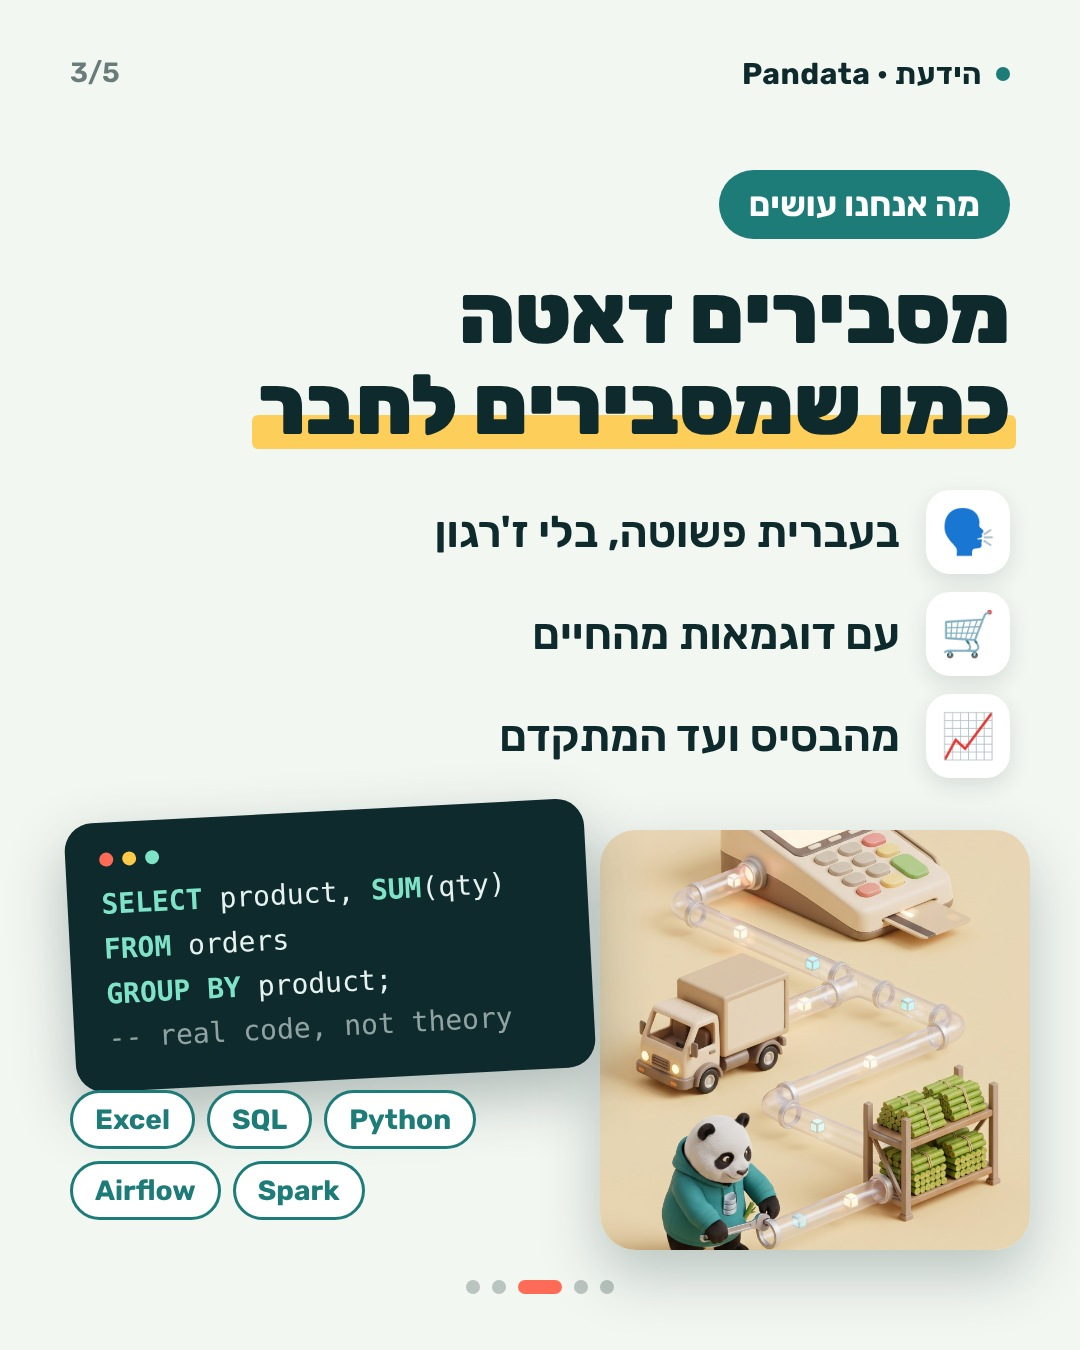
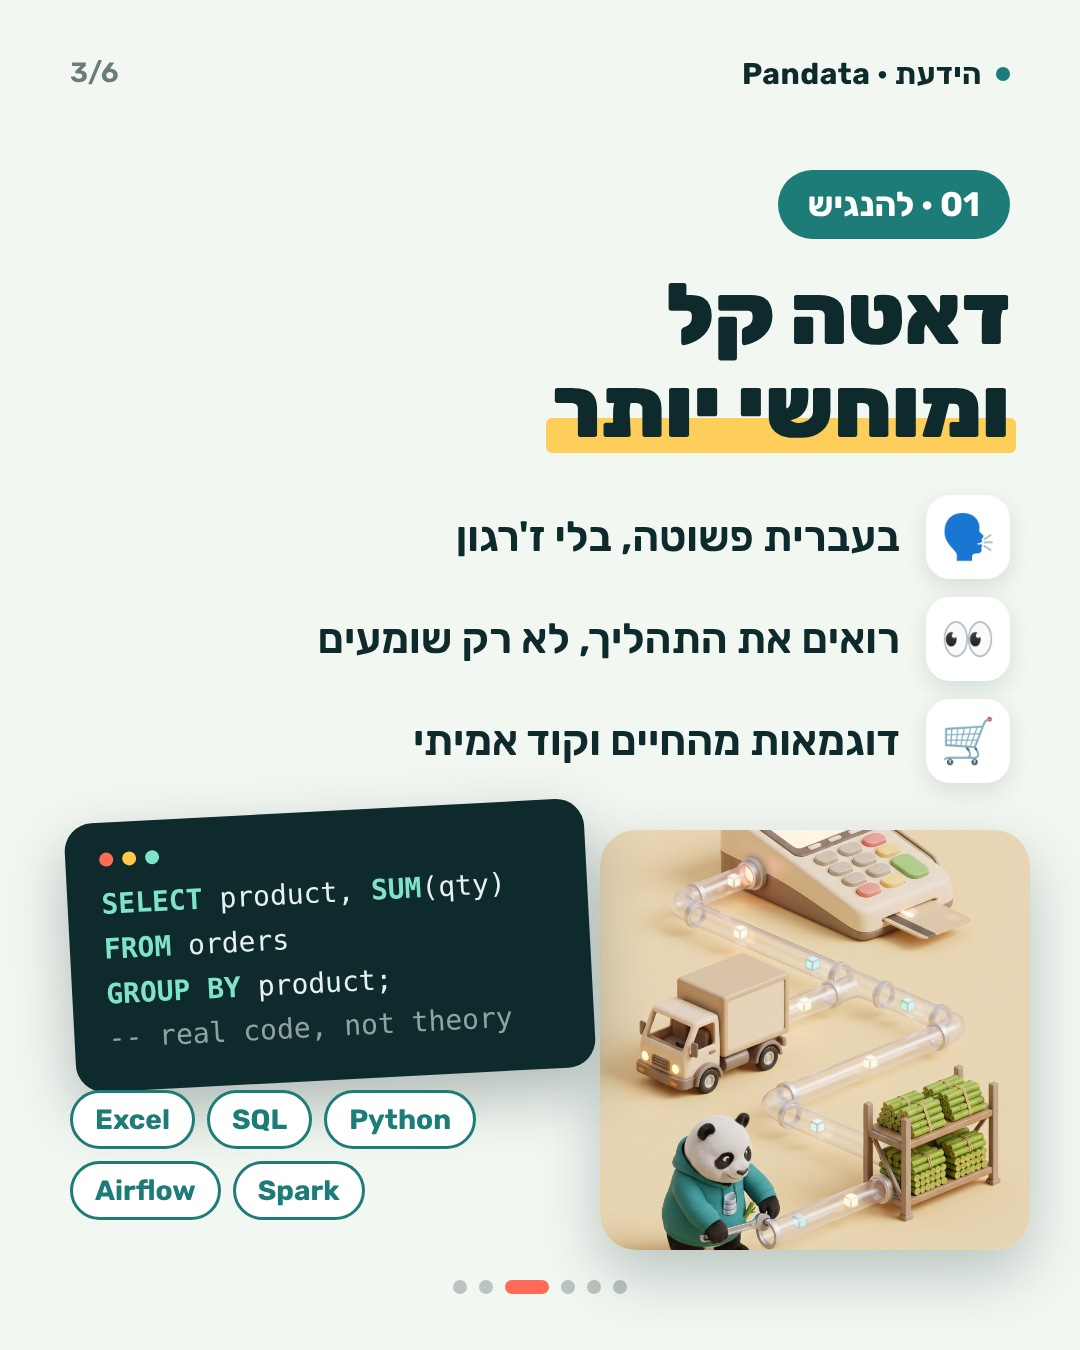
Rework vision carousel: new hook, three pillars, 6 slides
Claude-Session: https://claude.ai/code/session_01HGsxkkLTRfJG6BnZMczhct

diff --git a/posts/vision/slides.html b/posts/vision/slides.html
@@ -21,18 +21,19 @@ body{background:#888;font-family:R,sans-serif}
 mark{background:none;color:inherit;position:relative;z-index:0}
 mark::after{content:"";position:absolute;inset:auto -6px 6px -6px;height:34%;background:var(--sun);z-index:-1;border-radius:6px;opacity:.9}
 .dark mark::after{background:var(--coral);opacity:.85}
+.t{position:absolute;top:170px;right:70px;left:70px}
+h2{font-size:86px;line-height:1.08;font-weight:900}
 
-/* slide 1 */
+/* 1 */
 #s1 .bg{position:absolute;left:0;right:0;bottom:-60px;height:1150px;background:url(s1.jpg) center bottom/cover}
 #s1 .fade{position:absolute;inset:0;background:linear-gradient(180deg,rgba(10,36,38,1) 0%,rgba(10,36,38,1) 36%,rgba(10,36,38,.6) 48%,rgba(10,36,38,0) 62%)}
-#s1 .t{position:absolute;top:170px;right:70px;left:70px;z-index:3}
+#s1 .t{z-index:3}
 #s1 .pill{background:var(--mint);color:var(--deep);margin-bottom:34px}
-#s1 h1{font-size:112px;line-height:1.02;font-weight:900;letter-spacing:-1px}
+#s1 h1{font-size:120px;line-height:1.0;font-weight:900;letter-spacing:-1px}
 #s1 h1 em{font-style:normal;color:var(--mint)}
+#s1 h1 .big{color:var(--sun)}
 
-/* slide 2 */
-#s2 .t{position:absolute;top:170px;right:70px;left:70px}
-#s2 h2{font-size:86px;line-height:1.08;font-weight:900}
+/* 2 */
 #s2 p{font-size:42px;line-height:1.45;font-weight:500;margin-top:34px;max-width:900px}
 #s2 .cloud{position:absolute;bottom:120px;left:0;right:0;height:560px}
 #s2 .face{position:absolute;bottom:0;left:50%;transform:translateX(-50%);width:430px;height:430px;border-radius:50%;overflow:hidden;border:10px solid #fff;box-shadow:0 20px 60px rgba(15,42,44,.25);background:url(shock.jpg) center 30%/cover}
@@ -40,57 +41,58 @@ mark::after{content:"";position:absolute;inset:auto -6px 6px -6px;height:34%;bac
 #s2 .w.x{background:var(--coral);color:#fff;border-color:var(--coral)}
 #s2 .w.y{background:var(--ink);color:#fff}
 
-/* slide 3 */
-#s3 .t{position:absolute;top:170px;right:70px;left:70px}
+/* 3 */
 #s3 .pill{background:var(--teal);color:#fff;margin-bottom:30px}
-#s3 h2{font-size:84px;line-height:1.08;font-weight:900}
 #s3 .rows{margin-top:40px;display:flex;flex-direction:column;gap:18px}
-#s3 .row{display:flex;align-items:center;gap:26px;font-size:44px;font-weight:600}
+#s3 .row{display:flex;align-items:center;gap:26px;font-size:42px;font-weight:600}
 #s3 .ic{width:84px;height:84px;border-radius:24px;background:#fff;display:flex;align-items:center;justify-content:center;font-size:44px;box-shadow:0 8px 22px rgba(15,42,44,.12);flex:none}
 #s3 .code{position:absolute;bottom:270px;left:70px;width:520px;background:var(--ink);border-radius:28px;padding:30px 34px;direction:ltr;font-family:"DejaVu Sans Mono",monospace;font-size:28px;line-height:1.6;color:#e6f2f0;box-shadow:0 24px 60px rgba(15,42,44,.3);transform:rotate(-3deg)}
-#s3 .code .k{color:var(--mint);font-weight:700}#s3 .code .n{color:var(--sun)}
+#s3 .code .k{color:var(--mint);font-weight:700}
 #s3 .code .bar{display:flex;gap:9px;margin-bottom:16px}#s3 .code .bar i{width:14px;height:14px;border-radius:50%;background:#ff6b57}#s3 .code .bar i+i{background:#ffc94a}#s3 .code .bar i+i+i{background:#7fe3c8}
 #s3 .img{position:absolute;bottom:100px;right:50px;width:430px;height:420px;border-radius:36px;background:url(pipe.jpg) center 70%/cover;box-shadow:0 24px 60px rgba(15,42,44,.25)}
 #s3 .chips{position:absolute;bottom:130px;left:70px;display:flex;gap:12px;direction:ltr;flex-wrap:wrap;width:540px}
 #s3 .chips b{font-size:28px;font-weight:700;padding:10px 22px;border-radius:30px;border:3px solid var(--teal);color:var(--teal);background:#fff}
 
-/* slide 4 */
-#s4 .t{position:absolute;top:170px;right:70px;left:70px}
-#s4 .pill{background:var(--sun);color:var(--deep);margin-bottom:34px}
-#s4 h2{font-size:92px;line-height:1.08;font-weight:900}
-#s4 .steps{position:absolute;right:70px;left:70px;bottom:250px;height:470px}
-#s4 .st{position:absolute;width:300px;border-radius:30px;padding:30px 26px;background:rgba(255,255,255,.08);border:2px solid rgba(127,227,200,.45);backdrop-filter:blur(4px)}
-#s4 .st .n{font-weight:900;font-size:64px;color:var(--mint);line-height:1}
-#s4 .st p{font-size:36px;font-weight:600;line-height:1.3;margin-top:12px}
-#s4 .st:nth-child(1){right:0;bottom:0}
-#s4 .st:nth-child(2){right:330px;bottom:120px}
-#s4 .st:nth-child(3){right:660px;bottom:240px;background:var(--mint);color:var(--deep);border-color:var(--mint)}
-#s4 .st:nth-child(3) .n{color:var(--deep)}
-#s4 .foot{position:absolute;bottom:130px;right:70px;font-size:40px;font-weight:700;color:var(--mint)}
+/* 4 */
+#s4 .pill{background:var(--sun);color:var(--deep);margin-bottom:30px}
+#s4 .sub{font-size:40px;line-height:1.4;font-weight:500;margin-top:26px;opacity:.9}
+#s4 .card{position:absolute;right:70px;left:70px;bottom:140px;background:#fff;color:var(--ink);border-radius:36px;padding:40px 44px;box-shadow:0 30px 70px rgba(0,0,0,.35)}
+#s4 .card .tag{display:inline-block;background:var(--deep);color:#fff;font-weight:700;font-size:32px;padding:8px 20px;border-radius:30px}
+#s4 .card .q{font-size:52px;font-weight:800;line-height:1.25;margin:22px 0 28px}
+#s4 .opt{display:flex;align-items:center;gap:20px;font-size:40px;font-weight:600;padding:26px 28px;border-radius:22px;margin-top:14px}
+#s4 .opt .m{width:56px;height:56px;border-radius:50%;display:flex;align-items:center;justify-content:center;font-size:32px;color:#fff;flex:none;font-weight:900}
+#s4 .bad{background:#fff0ed}#s4 .bad .m{background:var(--coral)}#s4 .bad span{text-decoration:line-through;text-decoration-color:rgba(255,107,87,.7);text-decoration-thickness:3px}
+#s4 .good{background:#e6f8f2}#s4 .good .m{background:var(--teal)}
 
-/* slide 5 */
-#s5 .t{position:absolute;top:170px;right:70px;left:70px}
-#s5 h2{font-size:84px;line-height:1.06;font-weight:900}
-#s5 .list{margin-top:44px;display:flex;flex-direction:column;gap:20px}
-#s5 .it{display:flex;align-items:center;gap:24px;background:#fff;border-radius:28px;padding:22px 28px;box-shadow:0 10px 26px rgba(15,42,44,.08);font-size:40px;font-weight:600}
-#s5 .it .e{font-size:48px;width:70px;text-align:center}
-#s5 .it small{display:block;font-size:28px;font-weight:500;opacity:.65;margin-top:4px}
-#s5 .laugh{position:absolute;bottom:0;left:0;width:600px;height:620px;background:url(laugh.png) -60px -720px/820px auto no-repeat;-webkit-mask-image:linear-gradient(to left,transparent 0,#000 18%),linear-gradient(to bottom,transparent 0,#000 15%);-webkit-mask-composite:source-in;mask-composite:intersect}
-#s5 .cta{position:absolute;bottom:150px;right:70px;width:470px;text-align:right}
-#s5 .cta p{font-size:36px;line-height:1.35;font-weight:600;margin-bottom:26px}
-#s5 .btn{display:inline-flex;align-items:center;gap:14px;background:var(--coral);color:#fff;font-weight:800;font-size:40px;padding:22px 40px;border-radius:60px;box-shadow:0 14px 30px rgba(255,107,87,.4)}
-#s5 .h{direction:ltr;display:block;font-size:30px;font-weight:700;margin-top:18px;color:var(--teal)}
+/* 5 */
+#s5 .pill{background:var(--teal);color:#fff;margin-bottom:30px}
+#s5 .sub{font-size:40px;line-height:1.4;font-weight:500;margin-top:26px;max-width:900px}
+#s5 .hl{position:absolute;right:50px;left:50px;bottom:130px;display:grid;grid-template-columns:repeat(4,1fr);gap:34px 10px;justify-items:center}
+#s5 .b{display:flex;flex-direction:column;align-items:center;gap:14px}
+#s5 .ring{width:176px;height:176px;border-radius:50%;padding:7px;background:conic-gradient(from 200deg,var(--teal),var(--mint),var(--sun),var(--coral),var(--teal))}
+#s5 .ring div{width:100%;height:100%;border-radius:50%;background:#fff;border:6px solid var(--cream);display:flex;align-items:center;justify-content:center;font-size:66px}
+#s5 .b span{font-size:28px;font-weight:700;direction:ltr;white-space:nowrap}
+
+/* 6 */
+#s6 h2{font-size:84px;line-height:1.06}
+#s6 .sub{font-size:42px;line-height:1.4;font-weight:600;margin-top:30px;max-width:900px}
+#s6 .bubble{margin-top:40px;display:inline-block;background:#fff;border-radius:34px 34px 34px 8px;padding:30px 36px;font-size:40px;font-weight:700;box-shadow:0 12px 30px rgba(15,42,44,.1)}
+#s6 .recap{margin-top:46px;display:flex;flex-direction:column;gap:16px}#s6 .recap div{font-size:40px;font-weight:700;display:flex;align-items:center;gap:18px}#s6 .recap i{font-style:normal;width:54px;height:54px;border-radius:50%;background:var(--teal);color:#fff;display:flex;align-items:center;justify-content:center;font-size:30px}
+#s6 .laugh{position:absolute;bottom:0;left:0;width:600px;height:620px;background:url(laugh.png) -60px -720px/820px auto no-repeat;-webkit-mask-image:linear-gradient(to left,transparent 0,#000 18%),linear-gradient(to bottom,transparent 0,#000 15%);-webkit-mask-composite:source-in;mask-composite:intersect}
+#s6 .cta{position:absolute;bottom:150px;right:70px;width:440px;text-align:right}
+#s6 .btn{display:inline-flex;align-items:center;gap:14px;background:var(--coral);color:#fff;font-weight:800;font-size:40px;padding:22px 40px;border-radius:60px;box-shadow:0 14px 30px rgba(255,107,87,.4)}
+#s6 .btn2{display:inline-flex;margin-top:18px;font-weight:800;font-size:36px;padding:18px 34px;border-radius:60px;border:4px solid var(--ink)}
+#s6 .h{direction:ltr;display:block;font-size:30px;font-weight:700;margin-top:22px;color:var(--teal)}
 </style></head><body>
 
-<!-- 1 -->
 <div class="s dark" id="s1"><div class="bg"></div><div class="fade"></div>
-<div class="brand"><i></i>הידעת · Pandata</div><div class="num">1/5</div>
+<div class="brand"><i></i>הידעת · Pandata</div><div class="num">1/6</div>
 <div class="t"><div class="pill">✦ החזון שלנו</div>
-<h1>למה יש פנדה<br>ש<em>מסבירה דאטה</em>?</h1></div>
-<div class="swipe"><span>←</span>החליקו</div><div class="dots"><b class="on"></b><b></b><b></b><b></b><b></b></div></div>
+<h1><span class="big">3</span> דברים<br>ש<em>פנדאטה</em><br>בונה כאן</h1></div>
+<div class="swipe"><span>←</span>החליקו</div>
+<div class="dots"><b class="on"></b><b></b><b></b><b></b><b></b><b></b></div></div>
 
-<!-- 2 -->
-<div class="s cream" id="s2"><div class="brand"><i></i>הידעת · Pandata</div><div class="num">2/5</div>
+<div class="s cream" id="s2"><div class="brand"><i></i>הידעת · Pandata</div><div class="num">2/6</div>
 <div class="t"><h2>דאטה נמצא<br><mark>בכל מקום.</mark></h2>
 <p>בעבודה, בחדשות, בכל ראיון בהייטק. אבל רוב ההסברים באנגלית, מלאים במילים מפחידות, ונכתבו בשביל מי שכבר יודע.</p></div>
 <div class="cloud"><div class="face"></div>
@@ -101,46 +103,53 @@ mark::after{content:"";position:absolute;inset:auto -6px 6px -6px;height:34%;bac
 <span class="w y" style="left:250px;top:90px;transform:rotate(3deg)">Data Lake</span>
 <span class="w" style="right:250px;top:110px;transform:rotate(-4deg)">NULL</span>
 <span class="w x" style="left:40px;top:360px;transform:rotate(-6deg)">Schema</span>
-<span class="w" style="right:40px;top:370px;transform:rotate(8deg)">Pipeline</span>
-</div>
-<div class="dots"><b></b><b class="on"></b><b></b><b></b><b></b></div></div>
+<span class="w" style="right:40px;top:370px;transform:rotate(8deg)">Pipeline</span></div>
+<div class="dots"><b></b><b class="on"></b><b></b><b></b><b></b><b></b></div></div>
 
-<!-- 3 -->
-<div class="s cream" id="s3" style="background:#f3f7f2"><div class="brand"><i></i>הידעת · Pandata</div><div class="num">3/5</div>
-<div class="t"><div class="pill">מה אנחנו עושים</div>
-<h2>מסבירים דאטה<br><mark>כמו שמסבירים לחבר</mark></h2>
+<div class="s cream" id="s3" style="background:#f3f7f2"><div class="brand"><i></i>הידעת · Pandata</div><div class="num">3/6</div>
+<div class="t"><div class="pill">01 · להנגיש</div>
+<h2>דאטה קל<br><mark>ומוחשי יותר</mark></h2>
 <div class="rows">
 <div class="row"><div class="ic">🗣</div>בעברית פשוטה, בלי ז'רגון</div>
-<div class="row"><div class="ic">🛒</div>עם דוגמאות מהחיים</div>
-<div class="row"><div class="ic">📈</div>מהבסיס ועד המתקדם</div>
+<div class="row"><div class="ic">👀</div>רואים את התהליך, לא רק שומעים</div>
+<div class="row"><div class="ic">🛒</div>דוגמאות מהחיים וקוד אמיתי</div>
 </div></div>
 <div class="img"></div>
 <div class="code"><div class="bar"><i></i><i></i><i></i></div><span class="k">SELECT</span> product, <span class="k">SUM</span>(qty)<br><span class="k">FROM</span> orders<br><span class="k">GROUP BY</span> product;<br><span style="opacity:.6">-- real code, not theory</span></div>
 <div class="chips"><b>Excel</b><b>SQL</b><b>Python</b><b>Airflow</b><b>Spark</b></div>
-<div class="dots" style="color:var(--ink)"><b></b><b></b><b class="on"></b><b></b><b></b></div></div>
+<div class="dots" style="color:var(--ink)"><b></b><b></b><b class="on"></b><b></b><b></b><b></b></div></div>
 
-<!-- 4 -->
-<div class="s dark" id="s4"><div class="brand"><i></i>הידעת · Pandata</div><div class="num">4/5</div>
-<div class="t"><div class="pill">✦ החזון</div>
-<h2>שכל מי שרוצה<br>יוכל להיכנס<br><mark>לעולם הדאטה.</mark></h2></div>
-<div class="steps">
-<div class="st"><div class="n">01</div><p>להבין מה אומרים בישיבה</p></div>
-<div class="st"><div class="n">02</div><p>לעבור ראיון עבודה</p></div>
-<div class="st"><div class="n">03</div><p>להחליף קריירה 🚀</p></div>
+<div class="s dark" id="s4"><div class="brand"><i></i>הידעת · Pandata</div><div class="num">4/6</div>
+<div class="t"><div class="pill">02 · ראיונות עבודה</div>
+<h2>להגיע לראיון<br><mark>ולדעת לענות.</mark></h2>
+<div class="sub">שאלות אמיתיות מראיונות בדאטה, עם התשובה שעובדת והסבר למה.</div></div>
+<div class="card"><span class="tag">💼 שאלה מראיון עבודה</span>
+<div class="q">500,000 לייקים בדקה. איך שומרים את כולם בלי שהמערכת תקרוס?</div>
+<div class="opt bad"><div class="m">✕</div><span>כתיבה לבסיס הנתונים על כל לייק</span></div>
+<div class="opt good"><div class="m">✓</div>אוספים בזיכרון, ושומרים בקבוצות</div></div>
+<div class="dots"><b></b><b></b><b></b><b class="on"></b><b></b><b></b></div></div>
+
+<div class="s cream" id="s5"><div class="brand"><i></i>הידעת · Pandata</div><div class="num">5/6</div>
+<div class="t"><div class="pill">03 · מרכז ידע</div>
+<h2>מקום אחד<br><mark>שחוזרים אליו</mark></h2>
+<div class="sub">כל טיפ נשמר בהיילייטס, מסודר לפי נושא. צריכים משהו? הוא כבר מחכה לכם בפרופיל.</div></div>
+<div class="hl">
+<div class="b"><div class="ring"><div>🗄</div></div><span>SQL</span></div>
+<div class="b"><div class="ring"><div>🐍</div></div><span>Python</span></div>
+<div class="b"><div class="ring"><div>📊</div></div><span>Excel</span></div>
+<div class="b"><div class="ring"><div>🛠</div></div><span>Tools</span></div>
+<div class="b"><div class="ring"><div>💽</div></div><span>Database</span></div>
+<div class="b"><div class="ring"><div>⚙</div></div><span>Data Engineer</span></div>
+<div class="b"><div class="ring"><div>🔎</div></div><span>Data Analyst</span></div>
+<div class="b"><div class="ring"><div>💼</div></div><span>ראיונות</span></div>
 </div>
-<div class="foot">בלי תואר נוסף. סרטון אחד בכל פעם.</div>
-<div class="dots"><b></b><b></b><b></b><b class="on"></b><b></b></div></div>
+<div class="dots" style="color:var(--ink)"><b></b><b></b><b></b><b></b><b class="on"></b><b></b></div></div>
 
-<!-- 5 -->
-<div class="s cream" id="s5" style="background:#fceac3"><div class="brand"><i></i>הידעת · Pandata</div><div class="num">5/5</div>
-<div class="t"><h2>מה מחכה <mark>לכם כאן</mark></h2>
-<div class="list">
-<div class="it"><div class="e">📌</div><div>טיפ קצר בסטורי<small>כל יום, SQL, Python ואקסל</small></div></div>
-<div class="it"><div class="e">🎬</div><div>רילסים על מושג אחד<small>מוסבר עד הסוף, בלי לדלג</small></div></div>
-<div class="it"><div class="e">💼</div><div>שאלה מראיון עבודה<small>סדרה חדשה, ככה עונים נכון</small></div></div>
-</div></div>
+<div class="s cream" id="s6" style="background:#fceac3"><div class="brand"><i></i>הידעת · Pandata</div><div class="num">6/6</div>
+<div class="t"><h2>זה החזון.<br><mark>ואתם חלק ממנו.</mark></h2>
+<div class="recap"><div><i>✓</i>להנגיש דאטה, קל ומוחשי</div><div><i>✓</i>לעזור לכם בראיונות עבודה</div><div><i>✓</i>מרכז ידע שחוזרים אליו</div></div>
+<div class="bubble">מה הכי מבלבל אתכם בדאטה? 👇</div></div>
 <div class="laugh"></div>
-<div class="cta"><p>ובפעם הבאה שמישהו יגיד "דאטה", תדעו בדיוק על מה מדברים 😉</p>
-<div class="btn">עקבו ←</div><span class="h">@haya___data</span></div>
-<div class="dots" style="color:var(--ink)"><b></b><b></b><b></b><b></b><b class="on"></b></div></div>
+<div class="cta"><div class="btn">עקבו ←</div><br><div class="btn2">📌 שמרו את הפוסט</div><span class="h">@haya___data</span></div>
+<div class="dots" style="color:var(--ink)"><b></b><b></b><b></b><b></b><b></b><b class="on"></b></div></div>
 </body></html>
